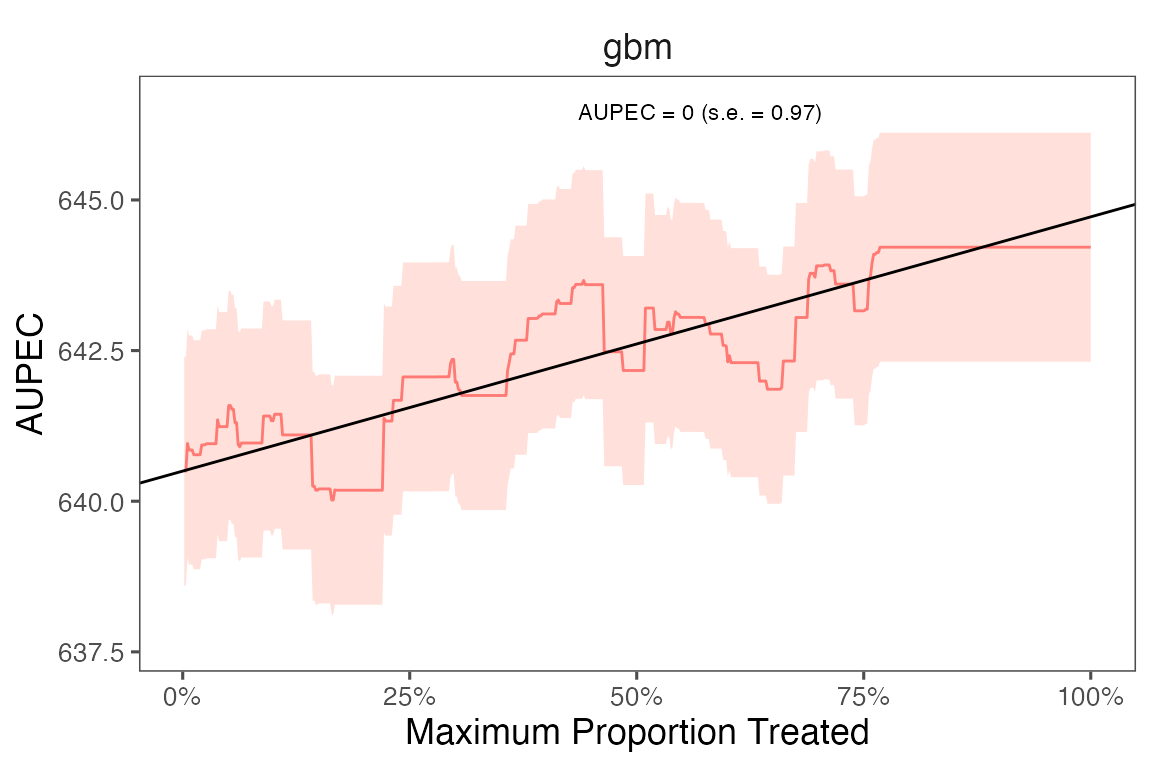
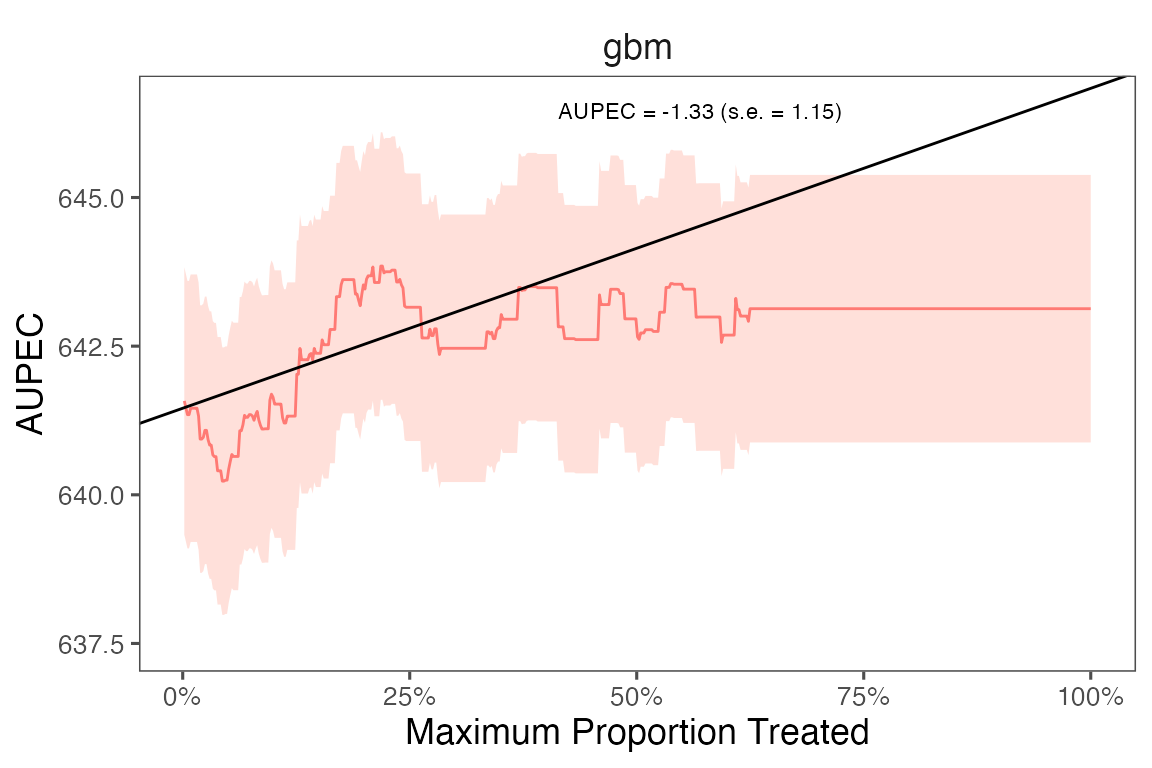
up

diff --git a/docs/articles/sample_split.html b/docs/articles/sample_split.html
@@ -158,26 +158,26 @@ in <a href="https://arxiv.org/abs/2203.14511" class="external-link">Imai and Li
 <span><span class="fu"><a href="https://rdrr.io/r/base/summary.html" class="external-link">summary</a></span><span class="op">(</span><span class="va">est</span><span class="op">)</span></span>
 <span><span class="co">#&gt; ── PAPE ────────────────────────────────────────────────────────────────────────</span></span>
 <span><span class="co">#&gt;   estimate std.deviation     algorithm statistic p.value</span></span>
-<span><span class="co">#&gt; 1     -1.6           1.1 causal_forest      -1.5    0.13</span></span>
+<span><span class="co">#&gt; 1     0.66           1.4 causal_forest      0.46    0.65</span></span>
 <span><span class="co">#&gt; </span></span>
 <span><span class="co">#&gt; ── PAPEp ───────────────────────────────────────────────────────────────────────</span></span>
 <span><span class="co">#&gt;   estimate std.deviation     algorithm statistic p.value</span></span>
-<span><span class="co">#&gt; 1      1.6           1.1 causal_forest       1.5    0.13</span></span>
+<span><span class="co">#&gt; 1      2.8           1.1 causal_forest       2.5   0.013</span></span>
 <span><span class="co">#&gt; </span></span>
 <span><span class="co">#&gt; ── PAPDp ───────────────────────────────────────────────────────────────────────</span></span>
 <span><span class="co">#&gt; data frame with 0 columns and 0 rows</span></span>
 <span><span class="co">#&gt; </span></span>
 <span><span class="co">#&gt; ── AUPEC ───────────────────────────────────────────────────────────────────────</span></span>
 <span><span class="co">#&gt;   estimate std.deviation     algorithm statistic p.value</span></span>
-<span><span class="co">#&gt; 1     -0.1          0.85 causal_forest     -0.12    0.91</span></span>
+<span><span class="co">#&gt; 1     0.44           1.1 causal_forest      0.41    0.68</span></span>
 <span><span class="co">#&gt; </span></span>
 <span><span class="co">#&gt; ── GATE ────────────────────────────────────────────────────────────────────────</span></span>
 <span><span class="co">#&gt;   estimate std.deviation     algorithm group statistic p.value upper lower</span></span>
-<span><span class="co">#&gt; 1     -183           107 causal_forest     1     -1.71   0.087  -359    -7</span></span>
-<span><span class="co">#&gt; 2     -153           108 causal_forest     2     -1.41   0.157  -330    25</span></span>
-<span><span class="co">#&gt; 3      236           109 causal_forest     3      2.17   0.030    57   415</span></span>
-<span><span class="co">#&gt; 4      -24           108 causal_forest     4     -0.22   0.825  -201   153</span></span>
-<span><span class="co">#&gt; 5      121           107 causal_forest     5      1.14   0.256   -54   297</span></span></code></pre></div>
+<span><span class="co">#&gt; 1       -4           107 causal_forest     1    -0.037    0.97  -180   172</span></span>
+<span><span class="co">#&gt; 2      -20           108 causal_forest     2    -0.187    0.85  -199   158</span></span>
+<span><span class="co">#&gt; 3       47           109 causal_forest     3     0.434    0.66  -132   227</span></span>
+<span><span class="co">#&gt; 4       89           108 causal_forest     4     0.820    0.41   -89   266</span></span>
+<span><span class="co">#&gt; 5      -88           107 causal_forest     5    -0.821    0.41  -263    88</span></span></code></pre></div>
 <p>We can extract estimates from the <code>est</code> object. The
 following code shows how to extract the GATE estimates for the writing
 score with the causal forest algorithm.</p>
